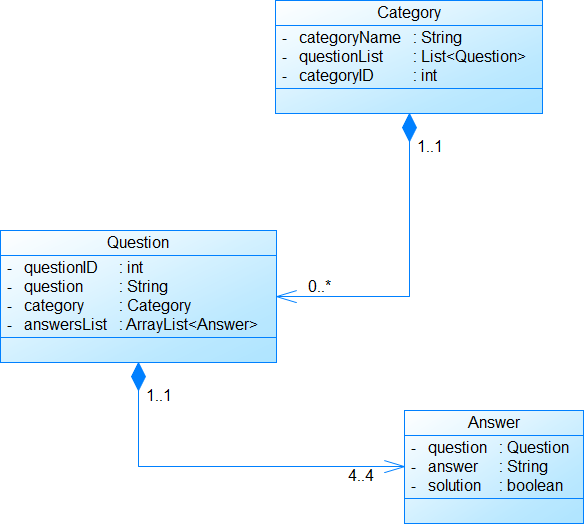
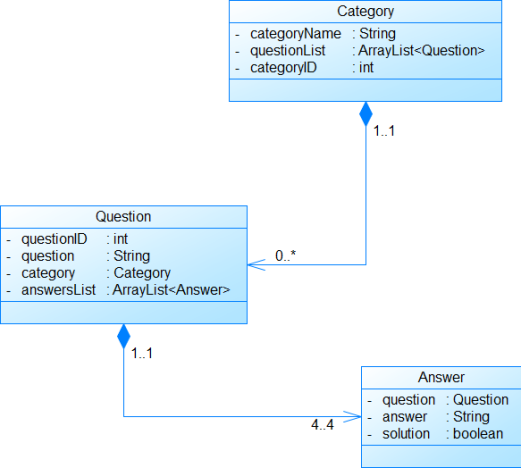
Implemented Tutor Feedback.

diff --git a/src/main/java/de/hda/fbi/db2/stud/entity/Question.java b/src/main/java/de/hda/fbi/db2/stud/entity/Question.java
@@ -1,6 +1,8 @@
 package de.hda.fbi.db2.stud.entity;
 
+import java.util.ArrayList;
 import java.util.List;
+import java.util.Objects;
 import java.util.UUID;
 import javax.persistence.GeneratedValue;
 import javax.persistence.Id;
@@ -9,11 +11,9 @@ import javax.persistence.ManyToOne;
 public class Question {
 
   @Id
-  @GeneratedValue
   private int id;
   private String question;
-  private List<String> answersList;
-  private int solutionIndex;
+  private ArrayList<Answer> answersList;
 
   @ManyToOne
   private Category category;
@@ -22,11 +22,13 @@ public class Question {
    * Constructor for the Questions Class.
    *
    */
-  public Question(int id, String question, List<String> answersList, int solutionIndex) {
+  public Question(int id, String question, ArrayList<Answer> answersList) {
     this.id = id;
     this.question = question;
     this.answersList = answersList;
-    this.solutionIndex = solutionIndex;
+    for (Answer i: answersList) {
+      i.setQuestion(this);
+    }
   }
 
   public String getQuestion() {
@@ -37,20 +39,12 @@ public class Question {
     this.question = question;
   }
 
-  public List<String> getAnswersList() {
+  public ArrayList<Answer> getAnswersList() {
     return answersList;
   }
 
-  public void setAnswersList(List<String> answersList) {
+  public void setAnswersList(ArrayList<Answer> answersList) {
     this.answersList = answersList;
-  }
-
-  public int getSolutionIndex() {
-    return solutionIndex;
-  }
-
-  public void setSolutionIndex(int solutionIndex) {
-    this.solutionIndex = solutionIndex;
   }
 
   public Category getCategory() {
@@ -67,8 +61,24 @@ public class Question {
       + "id=" + id
       + ", question='" + question + '\''
       + ", answersList=" + answersList
-      + ", solutionIndex=" + solutionIndex
       + ", category='" + category + '\''
       + '}';
+  }
+
+  @Override
+  public boolean equals(Object o) {
+    if (this == o) {
+      return true;
+    }
+    if (o == null || getClass() != o.getClass()) {
+      return false;
+    }
+    Question question = (Question) o;
+    return id == question.id;
+  }
+
+  @Override
+  public int hashCode() {
+    return Objects.hash(id);
   }
 }

diff --git a/src/main/java/de/hda/fbi/db2/stud/impl/Lab01.java b/src/main/java/de/hda/fbi/db2/stud/impl/Lab01.java
@@ -1,14 +1,13 @@
 package de.hda.fbi.db2.stud.impl;
 
 import de.hda.fbi.db2.api.Lab01Data;
+import de.hda.fbi.db2.stud.entity.Answer;
 import de.hda.fbi.db2.stud.entity.Category;
 import de.hda.fbi.db2.stud.entity.Question;
 import java.util.ArrayList;
-import java.util.Arrays;
 import java.util.HashMap;
-import java.util.HashSet;
 import java.util.List;
-import java.util.Set;
+
 
 public class Lab01 extends Lab01Data {
   List<Question> questionsList = new ArrayList<>();
@@ -35,10 +34,19 @@ public class Lab01 extends Lab01Data {
 
       int id = Integer.parseInt(line[0]);
       String question = line[1];
-      List<String> answersList = Arrays.asList(line[2], line[3], line[4], line[5]);
+
       int solutionIndex = Integer.parseInt(line[6]);
 
-      Question question1 = new Question(id, question, answersList, solutionIndex);
+      ArrayList<Answer> answersList = new ArrayList<>();
+      for (int j = 2; j < 6; j++) {
+        Answer answer = new Answer(line[j]);
+        if (j - 1 == solutionIndex) {
+          answer.setCorrect(true);
+        }
+        answersList.add(answer);
+      }
+
+      Question question1 = new Question(id, question, answersList);
 
       String categoryName = line[7];
 

diff --git a/src/main/java/de/hda/fbi/db2/stud/entity/Answer.java b/src/main/java/de/hda/fbi/db2/stud/entity/Answer.java
@@ -1,0 +1,57 @@
+package de.hda.fbi.db2.stud.entity;
+
+import java.util.Objects;
+import javax.persistence.Id;
+
+public class Answer {
+  @Id
+  private String answer;
+  private boolean isCorrect;
+  private Question question;
+
+  public Answer(String answer) {
+    this.answer = answer;
+    this.isCorrect = false;
+  }
+
+  public String getAnswer() {
+    return answer;
+  }
+
+  public void setAnswer(String answer) {
+    this.answer = answer;
+  }
+
+  public boolean isCorrect() {
+    return isCorrect;
+  }
+
+  public void setCorrect(boolean correct) {
+    isCorrect = correct;
+  }
+
+  public Question getQuestion() {
+    return question;
+  }
+
+  public void setQuestion(Question question) {
+    this.question = question;
+  }
+
+  @Override
+  public boolean equals(Object o) {
+    if (this == o) {
+      return true;
+    }
+    if (o == null || getClass() != o.getClass()) {
+      return false;
+    }
+    Answer answer1 = (Answer) o;
+    return answer.equals(answer1.answer);
+  }
+
+  @Override
+  public int hashCode() {
+    return Objects.hash(answer);
+  }
+}

diff --git a/src/main/java/de/hda/fbi/db2/stud/entity/Game.java b/src/main/java/de/hda/fbi/db2/stud/entity/Game.java
@@ -1,5 +1,6 @@
 package de.hda.fbi.db2.stud.entity;
 
+import java.util.ArrayList;
 import java.util.Date;
 import java.util.List;
 import java.util.Map;
@@ -21,7 +22,7 @@ public class Game {
   private Date gameEnd;
 
   @OneToMany
-  private List<Category> selectedCategories;
+  private ArrayList<Category> selectedCategories;
 
   @OneToMany
   private Map<Question, Integer> questionList;
@@ -59,11 +60,11 @@ public class Game {
     this.gameEnd = new Date(gameEnd.getTime());
   }
 
-  public List<Category> getSelectedCategories() {
+  public ArrayList<Category> getSelectedCategories() {
     return selectedCategories;
   }
 
-  public void setSelectedCategories(List<Category> selectedCategories) {
+  public void setSelectedCategories(ArrayList<Category> selectedCategories) {
     this.selectedCategories = selectedCategories;
   }
 

diff --git a/src/main/java/de/hda/fbi/db2/stud/entity/Category.java b/src/main/java/de/hda/fbi/db2/stud/entity/Category.java
@@ -1,16 +1,18 @@
 package de.hda.fbi.db2.stud.entity;
 
 import java.util.ArrayList;
-import java.util.List;
 import java.util.Objects;
 import javax.persistence.Entity;
+import javax.persistence.GeneratedValue;
 import javax.persistence.Id;
 
 @Entity
 public class Category {
   @Id
+  @GeneratedValue
+  private int id;
   private String category;
-  private List<Question> questionList;
+  private ArrayList<Question> questionList;
 
   public Category(String category) {
     this.category = category;
@@ -24,7 +26,7 @@ public class Category {
     this.category = category;
   }
 
-  public List<Question> getQuestionList() {
+  public ArrayList<Question> getQuestionList() {
     return questionList;
   }
 

diff --git a/src/main/java/de/hda/fbi/db2/stud/entity/Player.java b/src/main/java/de/hda/fbi/db2/stud/entity/Player.java
@@ -1,5 +1,6 @@
 package de.hda.fbi.db2.stud.entity;
 
+import java.util.ArrayList;
 import java.util.List;
 import java.util.Objects;
 import javax.persistence.GeneratedValue;
@@ -8,10 +9,12 @@ import javax.persistence.OneToMany;
 
 public class Player {
   @Id
+  @GeneratedValue
+  private int id;
   private String name;
 
   @OneToMany
-  private List<Game> games;
+  private ArrayList<Game> games;
 
   public Player(String name) {
     this.name = name;
@@ -25,7 +28,7 @@ public class Player {
     this.name = name;
   }
 
-  public List<Game> getGames() {
+  public ArrayList<Game> getGames() {
     return games;
   }
 
